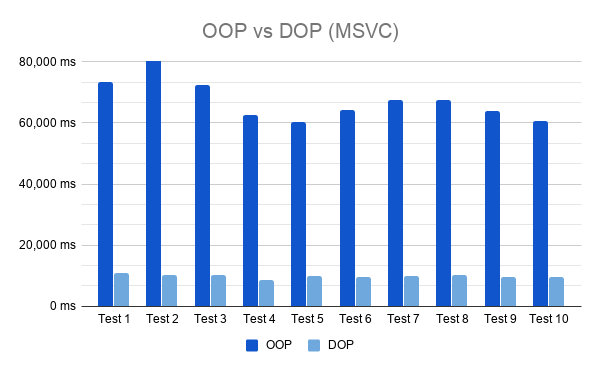
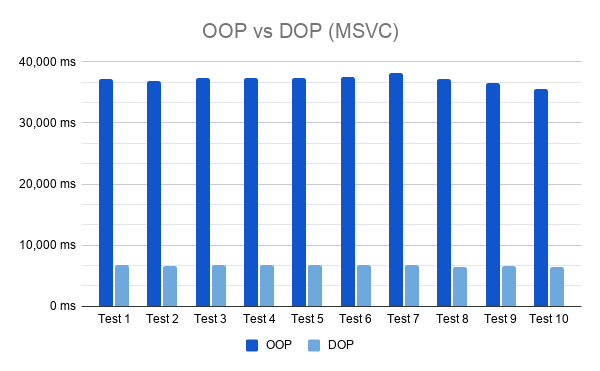
Updated test graphs

diff --git a/README.md b/README.md
@@ -1,18 +1,18 @@
 # DOP-test
 A simple experiment comparing data-oriented design to object-oriented design code
 
-Program does ten tests that creates 1,000,000 people and moves their position 20 times. 
+Program does ten tests that creates 1,000,000 people objects and moves their position 20 times. 
 Both g++ and MSVC was used to compile the code to show that DOP is effective regardless of compiler.
 
 
 The data-oriented method differs by:
 - Storing all and inherited variables into arrays
-- Removing Entity inheritence from Person
-- In-lining function calls
+- Removing inheritence
+- Separating functions from data
 - Modifying functions to apply to arrays
 
 ### Benchmark Results
 ![Benchmark](/images/OOP%20vs%20DOP%20(MSVC).png)
 ![Benchmark](/images/OOP%20vs%20DOP%20(g++).png)
 
-<sup><sup><sup> All benchmarks were ran on an AMD A10-7700K 
+<sup><sup><sup> Tests were done on an AMD Ryzen 5 3600X 
